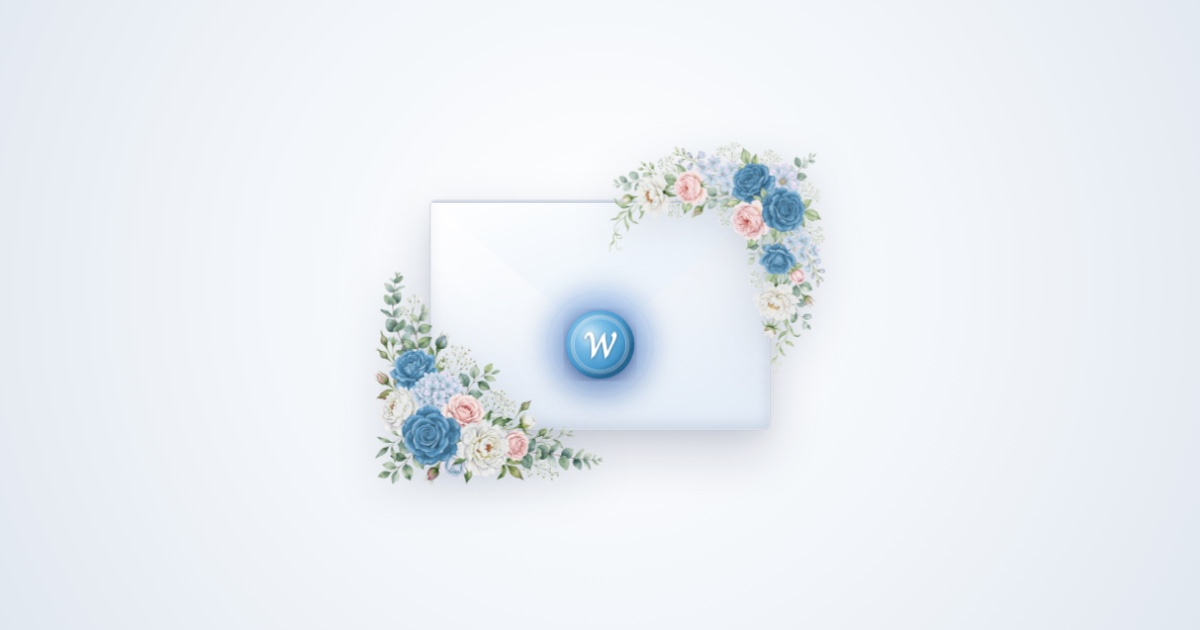
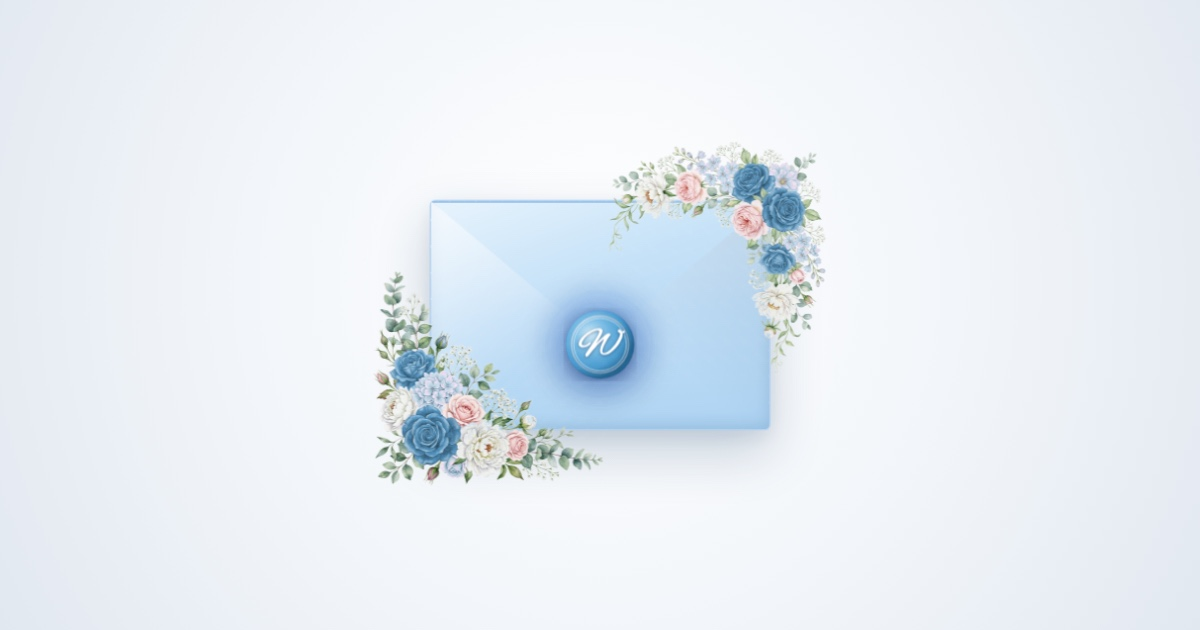
style(wendy): make closed envelope baby blue and remove floral drop shadow
- Update envelope pocket, flap, and background to luxurious baby blue palette
- Remove artificial drop-shadow filter on corner floral sprays to eliminate square/boxed shadow artifacts
- Update og-preview.jpg with new baby blue envelope screenshot

Changed region(s): [[0.3392, 0.3016, 0.6475, 0.6937]]

diff --git a/wendygarciamaya/style.css b/wendygarciamaya/style.css
@@ -2326,7 +2326,7 @@ body.site-entered .luxury-envelope-container.is-opened .env-invitation-card {
   position: absolute;
   object-fit: contain;
   pointer-events: none;
-  filter: drop-shadow(0 12px 24px rgba(15, 30, 80, 0.16));
+  filter: none;
 }
 
 .flower-top-right {
@@ -2346,7 +2346,7 @@ body.site-entered .luxury-envelope-container.is-opened .env-invitation-card {
   z-index: 25;
 }
 
-/* 3D Envelope Container (Soft Pale Pink Pearl Linen with Gold Trim) */
+/* 3D Envelope Container (Bespoke Baby Blue Stationery with Silver Accents) */
 .luxury-envelope-container {
   position: relative;
   width: 370px;
@@ -2356,29 +2356,29 @@ body.site-entered .luxury-envelope-container.is-opened .env-invitation-card {
   user-select: none;
   transform-style: preserve-3d;
   border-radius: 6px;
-  background: #f8fafc;
-  border: 1px solid rgba(148, 163, 184, 0.45);
+  background: #cbe3f7;
+  border: 1px solid rgba(147, 197, 253, 0.7);
   box-shadow:
-    0 25px 55px rgba(15, 30, 80, 0.18),
-    0 8px 22px rgba(0, 0, 0, 0.06);
+    0 25px 55px rgba(20, 65, 110, 0.22),
+    0 8px 22px rgba(15, 35, 58, 0.08);
   transition: transform 0.4s cubic-bezier(0.25, 1, 0.5, 1), box-shadow 0.4s ease;
   z-index: 10;
 }
 
 .luxury-envelope-container:hover {
   box-shadow:
-    0 32px 70px rgba(15, 30, 80, 0.24),
-    0 12px 30px rgba(0, 0, 0, 0.08);
+    0 32px 70px rgba(20, 65, 110, 0.28),
+    0 12px 30px rgba(15, 35, 58, 0.1);
 }
 
 /* Envelope Interior Back Wall */
 .env-back {
   position: absolute;
   inset: 0;
-  background: #edf2f9;
+  background: #b5d5f2;
   border-radius: 5px;
   overflow: hidden;
-  box-shadow: inset 0 0 35px rgba(15, 30, 80, 0.16);
+  box-shadow: inset 0 0 35px rgba(20, 65, 110, 0.22);
 }
 
 .env-interior-pattern {
@@ -2480,11 +2480,11 @@ body.site-entered .luxury-envelope-container.is-opened .env-invitation-card {
   inset: 0;
   width: 100%;
   height: 100%;
-  background: linear-gradient(175deg, #ffffff 0%, #f0f5fb 55%, #e2ebf6 100%);
+  background: linear-gradient(175deg, #e4f1fc 0%, #c2dff7 50%, #add3f2 100%);
   border-radius: 6px;
   z-index: 12;
   clip-path: polygon(0 0, 0 100%, 100% 100%, 100% 0, 50% 125px);
-  box-shadow: inset 0 -4px 15px rgba(15, 30, 80, 0.12), inset 0 1px 0 rgba(255, 255, 255, 0.8);
+  box-shadow: inset 0 -4px 15px rgba(20, 65, 110, 0.15), inset 0 1px 0 rgba(255, 255, 255, 0.85);
 }
 
 .env-pocket::before {
@@ -2492,8 +2492,8 @@ body.site-entered .luxury-envelope-container.is-opened .env-invitation-card {
   position: absolute;
   inset: 0;
   background-image:
-    linear-gradient(135deg, rgba(255, 255, 255, 0.6) 0%, transparent 45%),
-    linear-gradient(-135deg, rgba(148, 163, 184, 0.12) 0%, transparent 45%);
+    linear-gradient(135deg, rgba(255, 255, 255, 0.65) 0%, transparent 45%),
+    linear-gradient(-135deg, rgba(20, 65, 110, 0.12) 0%, transparent 45%);
   pointer-events: none;
 }
 
@@ -2508,16 +2508,16 @@ body.site-entered .luxury-envelope-container.is-opened .env-invitation-card {
   transform-style: preserve-3d;
   z-index: 15;
   transition: transform 0.52s cubic-bezier(0.25, 1, 0.4, 1);
-  filter: drop-shadow(0 6px 14px rgba(15, 30, 80, 0.16));
+  filter: drop-shadow(0 6px 14px rgba(20, 65, 110, 0.2));
   clip-path: polygon(0 0, 100% 0, 50% 100%);
-  background: linear-gradient(160deg, #ffffff 0%, #f0f6fc 50%, #e2ebf6 100%);
-  border-top: 2px solid #cbd5e1;
+  background: linear-gradient(160deg, #e8f4fd 0%, #c6e2f8 50%, #b0d5f3 100%);
+  border-top: 2px solid #9ec6ea;
 }
 
 .luxury-envelope-container.is-opened .env-flap {
   transform: rotateX(180deg);
   z-index: 15;
-  filter: drop-shadow(0 -4px 10px rgba(15, 30, 80, 0.12));
+  filter: drop-shadow(0 -4px 10px rgba(20, 65, 110, 0.15));
 }
 
 /* ── LUMINOUS GLOWING WAX SEAL ANIMATION ── */
